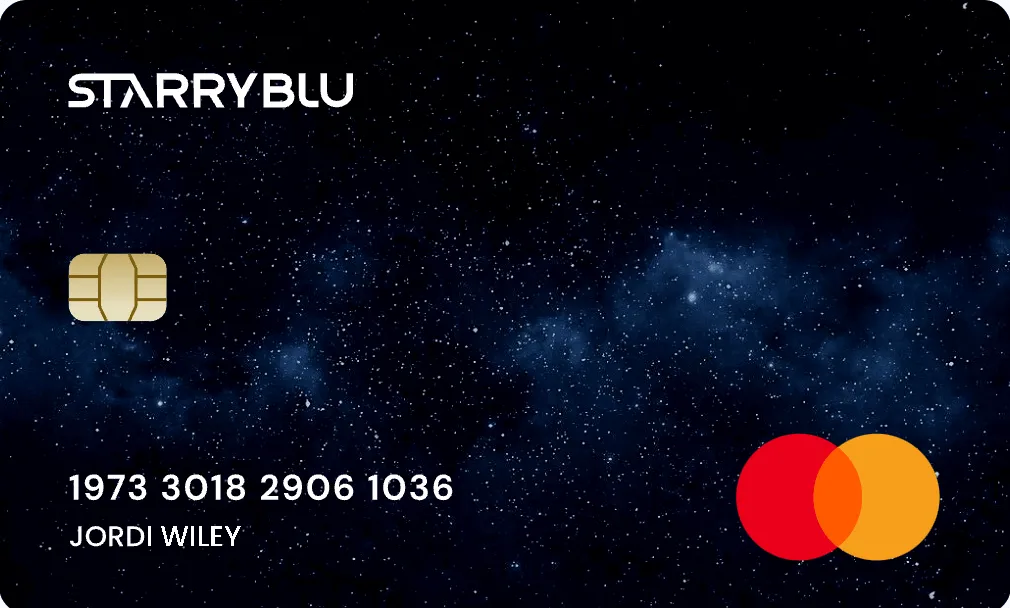
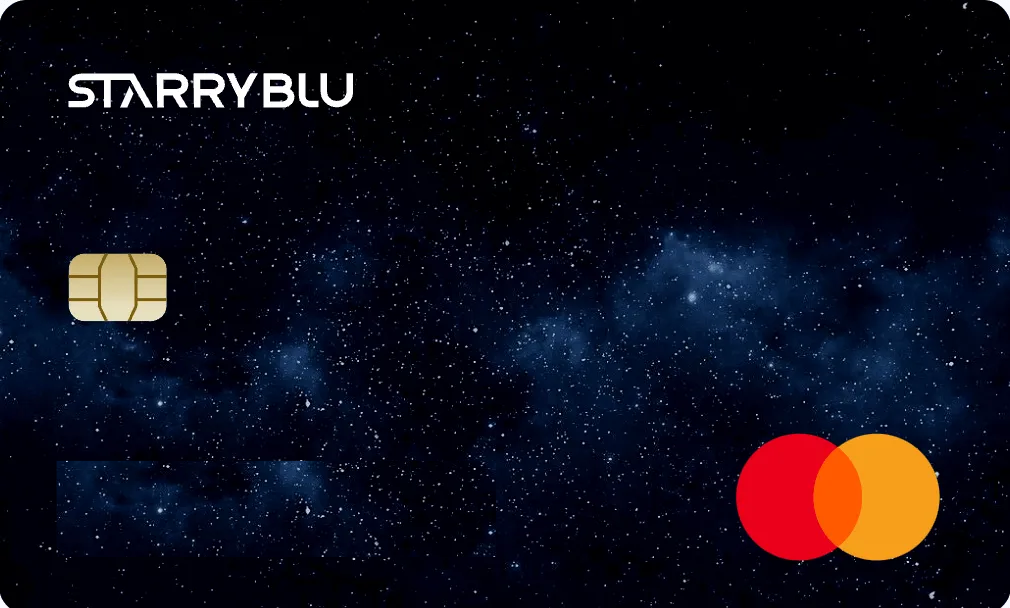
fix: exclude unprocessed StarryBlu pixels from production assets

Changed region(s): [[0.0307, 0.75, 0.4911, 0.9062]]

diff --git a/assets/cards/SOURCES.md b/assets/cards/SOURCES.md
@@ -1,4 +1,8 @@
-# 卡面与 Global 彩色品牌 · 本轮记录
+# 卡面与 Global 彩色品牌 · 来源记录
+
+## V0.1 公开发布补充（2026-10-18）
+
[1 lines of base64/hex data omitted]
 
 日期：2026-10-17。下载原件与展示用文件的字节 / SHA256 见 [manifest.json](manifest.json)。本轮素材仅接入独立实验页；AI 章节与正式 Global 没有改动。
 
